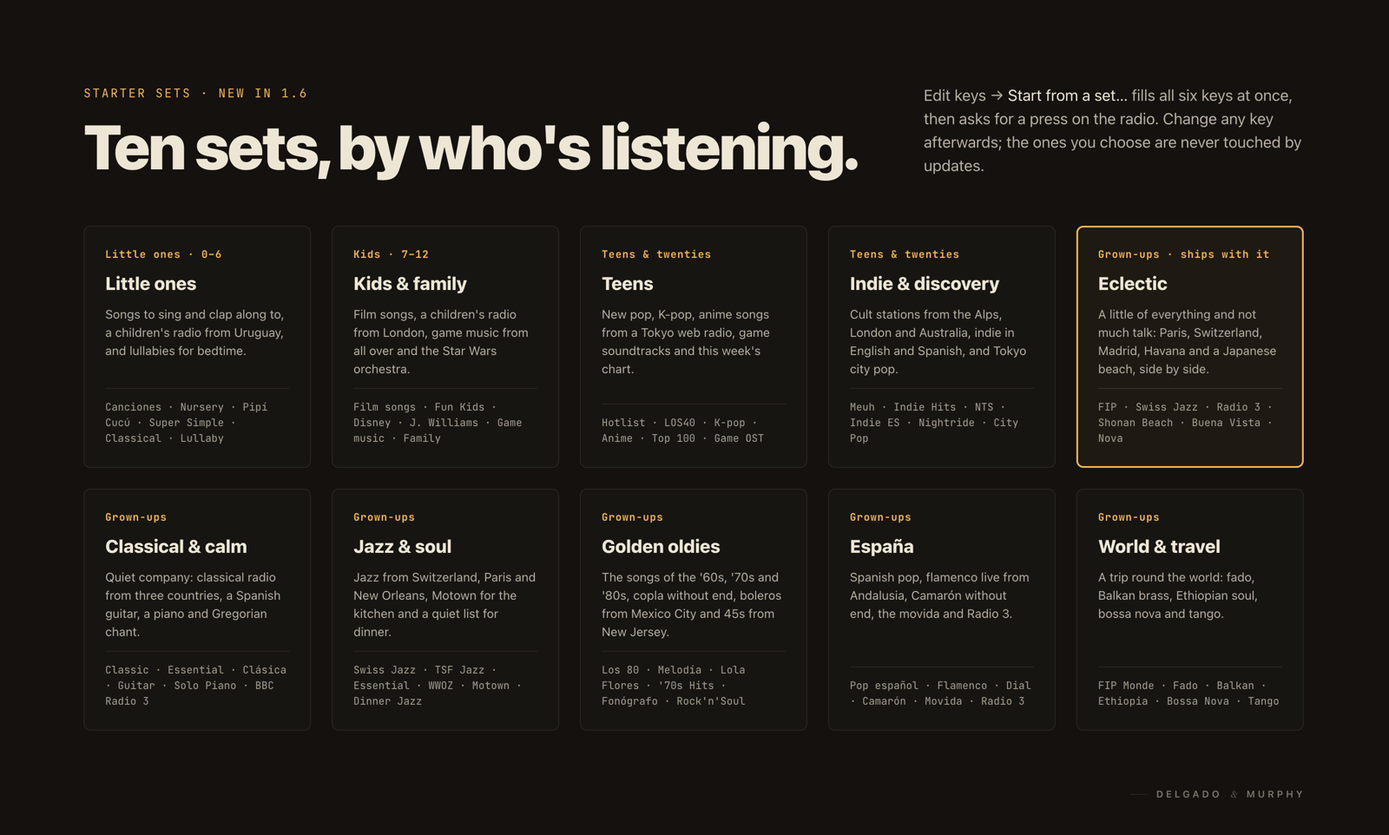
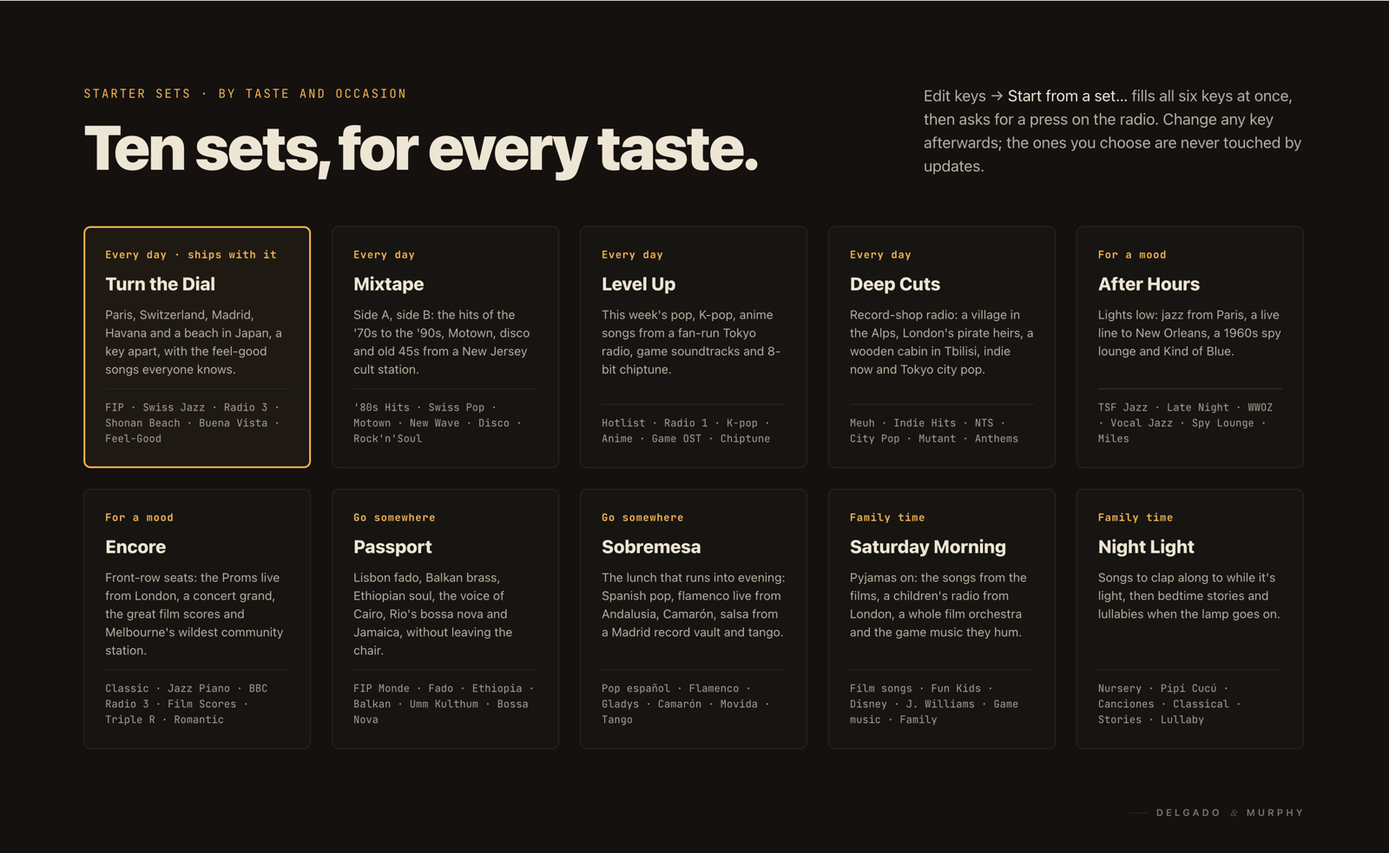
Starter sets by taste and occasion: Turn the Dial and nine more
Claude-Session: https://claude.ai/code/session_01Tuvo5fRpCFxVcgifKbLSTN

diff --git a/living-with-it.html b/living-with-it.html
@@ -4,13 +4,13 @@
 <meta charset="utf-8">
 <meta name="viewport" content="width=device-width, initial-scale=1">
 <title>Living with it · Hasler</title>
-<meta name="description" content="The keys, the knobs, the phone page, ten starter sets by who is listening, and answers to the questions people ask about the Hasler radio.">
+<meta name="description" content="The keys, the knobs, the phone page, ten starter sets for every taste and occasion, and answers to the questions people ask about the Hasler radio.">
 <meta name="theme-color" content="#17100B">
 <link rel="canonical" href="https://delgado-murphy.github.io/living-with-it.html">
 <meta property="og:type" content="website">
 <meta property="og:site_name" content="Hasler, by Delgado &amp; Murphy">
 <meta property="og:title" content="Living with it · Hasler">
-<meta property="og:description" content="The keys, the knobs, the phone page, ten starter sets by who is listening, and answers to the questions people ask about the Hasler radio.">
+<meta property="og:description" content="The keys, the knobs, the phone page, ten starter sets for every taste and occasion, and answers to the questions people ask about the Hasler radio.">
 <meta property="og:url" content="https://delgado-murphy.github.io/living-with-it.html">
 <meta property="og:image" content="https://delgado-murphy.github.io/img/og.png">
 <meta property="og:image:width" content="1200">
@@ -105,151 +105,151 @@
   <section class="section" id="sets" aria-labelledby="sets-title">
     <div class="wrap">
       <p class="label">Starter sets</p>
-      <h2 id="sets-title">Ten sets, by who’s listening.</h2>
+      <h2 id="sets-title">Ten sets, for every taste and occasion.</h2>
       <p class="lede">A radio comes with keys that show what it can do. Pick a whole set in one go (Edit keys, then <em>Start from a set…</em>), then make it yours one key at a time. The seventh is for the Excelsior’s <strong>Tape</strong> key.</p>
       <figure class="figure dark export" style="margin:8px 0 22px">
-        <a href="img/starter-sets-1600.webp"><picture><source type="image/webp" srcset="img/starter-sets-800.webp 800w, img/starter-sets-1600.webp 1600w" sizes="(min-width: 1180px) 1110px, calc(100vw - 32px)"><img src="img/starter-sets-1600.png" width="1600" height="962" alt="Ten cards grouped by listener: Little ones, Kids &amp; family, Teens, Indie &amp; discovery, Eclectic (the one each radio ships with), Classical &amp; calm, Jazz &amp; soul, Golden oldies, España, and World &amp; travel. Each card has a one-line description and its six stations or playlists." loading="lazy"></picture></a>
-        <figcaption>Ten starter sets, by who’s listening: one tap fills all the keys.</figcaption>
+        <a href="img/starter-sets-1600.webp"><picture><source type="image/webp" srcset="img/starter-sets-800.webp 800w, img/starter-sets-1600.webp 1600w" sizes="(min-width: 1180px) 1110px, calc(100vw - 32px)"><img src="img/starter-sets-1600.png" width="1600" height="983" alt="Ten cards grouped by occasion. Every day: Turn the Dial (the one each radio ships with), Mixtape, Level Up and Deep Cuts. For a mood: After Hours and Encore. Go somewhere: Passport and Sobremesa. Family time: Saturday Morning and Night Light. Each card has a one-line description and its six stations or playlists." loading="lazy"></picture></a>
+        <figcaption>Ten starter sets, grouped by occasion: one tap fills all the keys.</figcaption>
       </figure>
       <div class="sets">
-        <article class="set" id="set-little">
-          <p class="set-group">Little ones</p>
-          <h3>Little ones</h3>
-          <p class="set-blurb">Songs to sing and clap along to, a children&#x27;s radio from Uruguay, and lullabies for bedtime.</p>
-          <ol class="set-keys">
-            <li><span class="kn" title="Key 1">1</span><span class="kname">Canciones infantiles</span><span class="kkind">YouTube Music</span></li>
-            <li><span class="kn" title="Key 2">2</span><span class="kname">Nursery rhymes</span><span class="kkind">YouTube Music</span></li>
-            <li><span class="kn" title="Key 3">3</span><span class="kname">Radio Pipí Cucú</span><span class="kkind">station</span></li>
-            <li><span class="kn" title="Key 4">4</span><span class="kname">Super Simple Español</span><span class="kkind">YouTube Music</span></li>
-            <li><span class="kn" title="Key 5">5</span><span class="kname">Classical music for kids</span><span class="kkind">YouTube Music</span></li>
-            <li><span class="kn" title="Key 6">6</span><span class="kname">Calm Radio Lullaby</span><span class="kkind">station</span></li>
-            <li><span class="kn" title="Key 7, the Excelsior’s Tape key">T</span><span class="kname">Nanas para dormir</span><span class="kkind">YouTube Music</span></li>
-          </ol>
-        </article>
-        <article class="set" id="set-family">
-          <p class="set-group">Kids</p>
-          <h3>Kids &amp; family</h3>
-          <p class="set-blurb">Film songs, a children&#x27;s radio from London, game music from all over and the Star Wars orchestra.</p>
-          <ol class="set-keys">
-            <li><span class="kn" title="Key 1">1</span><span class="kname">Songs From Animated Movies</span><span class="kkind">YouTube Music</span></li>
-            <li><span class="kn" title="Key 2">2</span><span class="kname">Fun Kids</span><span class="kkind">station</span></li>
-            <li><span class="kn" title="Key 3">3</span><span class="kname">Disney en castellano</span><span class="kkind">YouTube Music</span></li>
-            <li><span class="kn" title="Key 4">4</span><span class="kname">Presenting John Williams</span><span class="kkind">YouTube Music</span></li>
-            <li><span class="kn" title="Key 5">5</span><span class="kname">Rainwave Game Music</span><span class="kkind">station</span></li>
-            <li><span class="kn" title="Key 6">6</span><span class="kname">Fun Family Hangout</span><span class="kkind">YouTube Music</span></li>
-            <li><span class="kn" title="Key 7, the Excelsior’s Tape key">T</span><span class="kname">Radio Swiss Pop</span><span class="kkind">station</span></li>
-          </ol>
-        </article>
-        <article class="set" id="set-teens">
-          <p class="set-group">Teens &amp; twenties</p>
-          <h3>Teens</h3>
-          <p class="set-blurb">New pop, K-pop, anime songs from a Tokyo web radio, game soundtracks and this week&#x27;s chart.</p>
-          <ol class="set-keys">
-            <li><span class="kn" title="Key 1">1</span><span class="kname">Pop Hotlist</span><span class="kkind">YouTube Music</span></li>
-            <li><span class="kn" title="Key 2">2</span><span class="kname">LOS40</span><span class="kkind">station</span></li>
-            <li><span class="kn" title="Key 3">3</span><span class="kname">K-HITLIST</span><span class="kkind">YouTube Music</span></li>
-            <li><span class="kn" title="Key 4">4</span><span class="kname">LISTEN.moe</span><span class="kkind">station</span></li>
-            <li><span class="kn" title="Key 5">5</span><span class="kname">Top 100 Spain</span><span class="kkind">YouTube Music</span></li>
-            <li><span class="kn" title="Key 6">6</span><span class="kname">Video Game Soundtracks</span><span class="kkind">YouTube Music</span></li>
-            <li><span class="kn" title="Key 7, the Excelsior’s Tape key">T</span><span class="kname">BBC Radio 1</span><span class="kkind">station</span></li>
-          </ol>
-        </article>
-        <article class="set" id="set-indie">
-          <p class="set-group">Teens &amp; twenties</p>
-          <h3>Indie &amp; discovery</h3>
-          <p class="set-blurb">Cult stations from the Alps, London and Australia, indie in English and Spanish, and Tokyo city pop.</p>
-          <ol class="set-keys">
-            <li><span class="kn" title="Key 1">1</span><span class="kname">Radio Meuh</span><span class="kkind">station</span></li>
-            <li><span class="kn" title="Key 2">2</span><span class="kname">Today&#x27;s Indie Hits</span><span class="kkind">YouTube Music</span></li>
-            <li><span class="kn" title="Key 3">3</span><span class="kname">NTS 1</span><span class="kkind">station</span></li>
-            <li><span class="kn" title="Key 4">4</span><span class="kname">Éxitos Indie</span><span class="kkind">YouTube Music</span></li>
-            <li><span class="kn" title="Key 5">5</span><span class="kname">Nightride FM</span><span class="kkind">station</span></li>
-            <li><span class="kn" title="Key 6">6</span><span class="kname">City Pop: Origins</span><span class="kkind">YouTube Music</span></li>
-            <li><span class="kn" title="Key 7, the Excelsior’s Tape key">T</span><span class="kname">triple j</span><span class="kkind">station</span></li>
-          </ol>
-        </article>
-        <article class="set" id="set-eclectic">
-          <p class="set-group">Grown-ups · the one it comes with</p>
-          <h3>Eclectic</h3>
-          <p class="set-blurb">A little of everything and not much talk: Paris, Switzerland, Madrid, Havana and a Japanese beach, side by side.</p>
+        <article class="set" id="set-dial">
+          <p class="set-group">Every day · the one it comes with</p>
+          <h3>Turn the Dial</h3>
+          <p class="set-blurb">Paris, Switzerland, Madrid, Havana and a beach in Japan, a key apart, with the feel-good songs everyone knows.</p>
           <ol class="set-keys">
             <li><span class="kn" title="Key 1">1</span><span class="kname">FIP</span><span class="kkind">station</span></li>
             <li><span class="kn" title="Key 2">2</span><span class="kname">Radio Swiss Jazz</span><span class="kkind">station</span></li>
             <li><span class="kn" title="Key 3">3</span><span class="kname">RNE Radio 3</span><span class="kkind">station</span></li>
             <li><span class="kn" title="Key 4">4</span><span class="kname">Shonan Beach FM</span><span class="kkind">station</span></li>
             <li><span class="kn" title="Key 5">5</span><span class="kname">Buena Vista Social Club radio</span><span class="kkind">YouTube Music</span></li>
-            <li><span class="kn" title="Key 6">6</span><span class="kname">Radio Nova</span><span class="kkind">station</span></li>
+            <li><span class="kn" title="Key 6">6</span><span class="kname">Classic Feel-Good Pop</span><span class="kkind">YouTube Music</span></li>
             <li><span class="kn" title="Key 7, the Excelsior’s Tape key">T</span><span class="kname">KEXP</span><span class="kkind">station</span></li>
           </ol>
         </article>
-        <article class="set" id="set-classical">
-          <p class="set-group">Grown-ups</p>
-          <h3>Classical &amp; calm</h3>
-          <p class="set-blurb">Quiet company: classical radio from three countries, a Spanish guitar, a piano and Gregorian chant.</p>
+        <article class="set" id="set-mixtape">
+          <p class="set-group">Every day</p>
+          <h3>Mixtape</h3>
+          <p class="set-blurb">Side A, side B: the hits of the &#x27;70s to the &#x27;90s, Motown, disco and old 45s from a New Jersey cult station.</p>
           <ol class="set-keys">
-            <li><span class="kn" title="Key 1">1</span><span class="kname">Radio Swiss Classic</span><span class="kkind">station</span></li>
-            <li><span class="kn" title="Key 2">2</span><span class="kname">Essential Classical</span><span class="kkind">YouTube Music</span></li>
-            <li><span class="kn" title="Key 3">3</span><span class="kname">RNE Radio Clásica</span><span class="kkind">station</span></li>
-            <li><span class="kn" title="Key 4">4</span><span class="kname">Classical Spanish Guitar</span><span class="kkind">YouTube Music</span></li>
-            <li><span class="kn" title="Key 5">5</span><span class="kname">Classical Solo Piano</span><span class="kkind">YouTube Music</span></li>
-            <li><span class="kn" title="Key 6">6</span><span class="kname">BBC Radio 3</span><span class="kkind">station</span></li>
-            <li><span class="kn" title="Key 7, the Excelsior’s Tape key">T</span><span class="kname">Gregorian chant</span><span class="kkind">station</span></li>
+            <li><span class="kn" title="Key 1">1</span><span class="kname">The Hits: &#x27;80s</span><span class="kkind">YouTube Music</span></li>
+            <li><span class="kn" title="Key 2">2</span><span class="kname">Radio Swiss Pop</span><span class="kkind">station</span></li>
+            <li><span class="kn" title="Key 3">3</span><span class="kname">Essential Motown Hits</span><span class="kkind">YouTube Music</span></li>
+            <li><span class="kn" title="Key 4">4</span><span class="kname">Underground 80s</span><span class="kkind">station</span></li>
+            <li><span class="kn" title="Key 5">5</span><span class="kname">Classic Disco Hits</span><span class="kkind">YouTube Music</span></li>
+            <li><span class="kn" title="Key 6">6</span><span class="kname">WFMU Rock&#x27;n&#x27;Soul</span><span class="kkind">station</span></li>
+            <li><span class="kn" title="Key 7, the Excelsior’s Tape key">T</span><span class="kname">The Hits: &#x27;90s</span><span class="kkind">YouTube Music</span></li>
           </ol>
         </article>
-        <article class="set" id="set-jazz">
-          <p class="set-group">Grown-ups</p>
-          <h3>Jazz &amp; soul</h3>
-          <p class="set-blurb">Jazz from Switzerland, Paris and New Orleans, Motown for the kitchen and a quiet list for dinner.</p>
+        <article class="set" id="set-levelup">
+          <p class="set-group">Every day</p>
+          <h3>Level Up</h3>
+          <p class="set-blurb">This week&#x27;s pop, K-pop, anime songs from a fan-run Tokyo radio, game soundtracks and 8-bit chiptune.</p>
           <ol class="set-keys">
-            <li><span class="kn" title="Key 1">1</span><span class="kname">Radio Swiss Jazz</span><span class="kkind">station</span></li>
-            <li><span class="kn" title="Key 2">2</span><span class="kname">TSF Jazz</span><span class="kkind">station</span></li>
-            <li><span class="kn" title="Key 3">3</span><span class="kname">Essential Jazz</span><span class="kkind">YouTube Music</span></li>
-            <li><span class="kn" title="Key 4">4</span><span class="kname">WWOZ New Orleans</span><span class="kkind">station</span></li>
-            <li><span class="kn" title="Key 5">5</span><span class="kname">Essential Motown Hits</span><span class="kkind">YouTube Music</span></li>
-            <li><span class="kn" title="Key 6">6</span><span class="kname">Dinner Party Jazz</span><span class="kkind">YouTube Music</span></li>
+            <li><span class="kn" title="Key 1">1</span><span class="kname">Pop Hotlist</span><span class="kkind">YouTube Music</span></li>
+            <li><span class="kn" title="Key 2">2</span><span class="kname">BBC Radio 1</span><span class="kkind">station</span></li>
+            <li><span class="kn" title="Key 3">3</span><span class="kname">K-HITLIST</span><span class="kkind">YouTube Music</span></li>
+            <li><span class="kn" title="Key 4">4</span><span class="kname">LISTEN.moe</span><span class="kkind">station</span></li>
+            <li><span class="kn" title="Key 5">5</span><span class="kname">Video Game Soundtracks</span><span class="kkind">YouTube Music</span></li>
+            <li><span class="kn" title="Key 6">6</span><span class="kname">Rainwave Chiptune</span><span class="kkind">station</span></li>
+            <li><span class="kn" title="Key 7, the Excelsior’s Tape key">T</span><span class="kname">Nightwave Plaza</span><span class="kkind">station</span></li>
+          </ol>
+        </article>
+        <article class="set" id="set-deepcuts">
+          <p class="set-group">Every day</p>
+          <h3>Deep Cuts</h3>
+          <p class="set-blurb">Record-shop radio: a village in the Alps, London&#x27;s pirate heirs, a wooden cabin in Tbilisi, indie now and Tokyo city pop.</p>
+          <ol class="set-keys">
+            <li><span class="kn" title="Key 1">1</span><span class="kname">Radio Meuh</span><span class="kkind">station</span></li>
+            <li><span class="kn" title="Key 2">2</span><span class="kname">Today&#x27;s Indie Hits</span><span class="kkind">YouTube Music</span></li>
+            <li><span class="kn" title="Key 3">3</span><span class="kname">NTS 1</span><span class="kkind">station</span></li>
+            <li><span class="kn" title="Key 4">4</span><span class="kname">City Pop: Origins</span><span class="kkind">YouTube Music</span></li>
+            <li><span class="kn" title="Key 5">5</span><span class="kname">Mutant Radio</span><span class="kkind">station</span></li>
+            <li><span class="kn" title="Key 6">6</span><span class="kname">Indie Anthems</span><span class="kkind">YouTube Music</span></li>
+            <li><span class="kn" title="Key 7, the Excelsior’s Tape key">T</span><span class="kname">Radio Nova</span><span class="kkind">station</span></li>
+          </ol>
+        </article>
+        <article class="set" id="set-afterhours">
+          <p class="set-group">For a mood</p>
+          <h3>After Hours</h3>
+          <p class="set-blurb">Lights low: jazz from Paris, a live line to New Orleans, a 1960s spy lounge and Kind of Blue.</p>
+          <ol class="set-keys">
+            <li><span class="kn" title="Key 1">1</span><span class="kname">TSF Jazz</span><span class="kkind">station</span></li>
+            <li><span class="kn" title="Key 2">2</span><span class="kname">Late Night Jazz</span><span class="kkind">YouTube Music</span></li>
+            <li><span class="kn" title="Key 3">3</span><span class="kname">WWOZ New Orleans</span><span class="kkind">station</span></li>
+            <li><span class="kn" title="Key 4">4</span><span class="kname">Sophisticated Vocal Jazz</span><span class="kkind">YouTube Music</span></li>
+            <li><span class="kn" title="Key 5">5</span><span class="kname">Secret Agent</span><span class="kkind">station</span></li>
+            <li><span class="kn" title="Key 6">6</span><span class="kname">Presenting Miles Davis</span><span class="kkind">YouTube Music</span></li>
             <li><span class="kn" title="Key 7, the Excelsior’s Tape key">T</span><span class="kname">Django Reinhardt radio</span><span class="kkind">YouTube Music</span></li>
           </ol>
         </article>
-        <article class="set" id="set-oldies">
-          <p class="set-group">Grown-ups</p>
-          <h3>Golden oldies</h3>
-          <p class="set-blurb">The songs of the &#x27;60s, &#x27;70s and &#x27;80s, copla without end, boleros from Mexico City and 45s from New Jersey.</p>
+        <article class="set" id="set-encore">
+          <p class="set-group">For a mood</p>
+          <h3>Encore</h3>
+          <p class="set-blurb">Front-row seats: the Proms live from London, a concert grand, the great film scores and Melbourne&#x27;s wildest community station.</p>
           <ol class="set-keys">
-            <li><span class="kn" title="Key 1">1</span><span class="kname">Éxitos de los &#x27;80</span><span class="kkind">YouTube Music</span></li>
-            <li><span class="kn" title="Key 2">2</span><span class="kname">Melodía FM</span><span class="kkind">station</span></li>
-            <li><span class="kn" title="Key 3">3</span><span class="kname">Lola Flores radio</span><span class="kkind">YouTube Music</span></li>
-            <li><span class="kn" title="Key 4">4</span><span class="kname">The Hits: &#x27;70s</span><span class="kkind">YouTube Music</span></li>
-            <li><span class="kn" title="Key 5">5</span><span class="kname">El Fonógrafo</span><span class="kkind">station</span></li>
-            <li><span class="kn" title="Key 6">6</span><span class="kname">WFMU Rock&#x27;n&#x27;Soul</span><span class="kkind">station</span></li>
-            <li><span class="kn" title="Key 7, the Excelsior’s Tape key">T</span><span class="kname">Joan Manuel Serrat radio</span><span class="kkind">YouTube Music</span></li>
+            <li><span class="kn" title="Key 1">1</span><span class="kname">Radio Swiss Classic</span><span class="kkind">station</span></li>
+            <li><span class="kn" title="Key 2">2</span><span class="kname">Jazz Piano</span><span class="kkind">YouTube Music</span></li>
+            <li><span class="kn" title="Key 3">3</span><span class="kname">BBC Radio 3</span><span class="kkind">station</span></li>
+            <li><span class="kn" title="Key 4">4</span><span class="kname">Epic Film Scores</span><span class="kkind">YouTube Music</span></li>
+            <li><span class="kn" title="Key 5">5</span><span class="kname">Triple R</span><span class="kkind">station</span></li>
+            <li><span class="kn" title="Key 6">6</span><span class="kname">Classical Romance</span><span class="kkind">YouTube Music</span></li>
+            <li><span class="kn" title="Key 7, the Excelsior’s Tape key">T</span><span class="kname">NRK Jazz</span><span class="kkind">station</span></li>
           </ol>
         </article>
-        <article class="set" id="set-espana">
-          <p class="set-group">Grown-ups</p>
-          <h3>España</h3>
-          <p class="set-blurb">Spanish pop, flamenco live from Andalusia, Camarón without end, the movida and Radio 3.</p>
-          <ol class="set-keys">
-            <li><span class="kn" title="Key 1">1</span><span class="kname">Pop español</span><span class="kkind">YouTube Music</span></li>
-            <li><span class="kn" title="Key 2">2</span><span class="kname">Flamenco Radio</span><span class="kkind">station</span></li>
-            <li><span class="kn" title="Key 3">3</span><span class="kname">Cadena Dial</span><span class="kkind">station</span></li>
-            <li><span class="kn" title="Key 4">4</span><span class="kname">Camarón de la Isla radio</span><span class="kkind">YouTube Music</span></li>
-            <li><span class="kn" title="Key 5">5</span><span class="kname">La movida</span><span class="kkind">YouTube Music</span></li>
-            <li><span class="kn" title="Key 6">6</span><span class="kname">RNE Radio 3</span><span class="kkind">station</span></li>
-            <li><span class="kn" title="Key 7, the Excelsior’s Tape key">T</span><span class="kname">Paco de Lucía radio</span><span class="kkind">YouTube Music</span></li>
-          </ol>
-        </article>
-        <article class="set" id="set-world">
-          <p class="set-group">Grown-ups</p>
-          <h3>World &amp; travel</h3>
-          <p class="set-blurb">A trip round the world: fado, Balkan brass, Ethiopian soul, bossa nova and tango.</p>
+        <article class="set" id="set-passport">
+          <p class="set-group">Go somewhere</p>
+          <h3>Passport</h3>
+          <p class="set-blurb">Lisbon fado, Balkan brass, Ethiopian soul, the voice of Cairo, Rio&#x27;s bossa nova and Jamaica, without leaving the chair.</p>
           <ol class="set-keys">
             <li><span class="kn" title="Key 1">1</span><span class="kname">FIP Monde</span><span class="kkind">station</span></li>
             <li><span class="kn" title="Key 2">2</span><span class="kname">Amália Rodrigues radio</span><span class="kkind">YouTube Music</span></li>
-            <li><span class="kn" title="Key 3">3</span><span class="kname">Goran Bregović radio</span><span class="kkind">YouTube Music</span></li>
-            <li><span class="kn" title="Key 4">4</span><span class="kname">Ethio Oldies</span><span class="kkind">station</span></li>
-            <li><span class="kn" title="Key 5">5</span><span class="kname">Bossa Nova Time</span><span class="kkind">YouTube Music</span></li>
-            <li><span class="kn" title="Key 6">6</span><span class="kname">La 2x4</span><span class="kkind">station</span></li>
+            <li><span class="kn" title="Key 3">3</span><span class="kname">Ethio Oldies</span><span class="kkind">station</span></li>
+            <li><span class="kn" title="Key 4">4</span><span class="kname">Goran Bregović radio</span><span class="kkind">YouTube Music</span></li>
+            <li><span class="kn" title="Key 5">5</span><span class="kname">Umm Kulthum radio</span><span class="kkind">station</span></li>
+            <li><span class="kn" title="Key 6">6</span><span class="kname">Bossa Nova Time</span><span class="kkind">YouTube Music</span></li>
             <li><span class="kn" title="Key 7, the Excelsior’s Tape key">T</span><span class="kname">Irie FM</span><span class="kkind">station</span></li>
+          </ol>
+        </article>
+        <article class="set" id="set-sobremesa">
+          <p class="set-group">Go somewhere</p>
+          <h3>Sobremesa</h3>
+          <p class="set-blurb">The lunch that runs into evening: Spanish pop, flamenco live from Andalusia, Camarón, salsa from a Madrid record vault and tango.</p>
+          <ol class="set-keys">
+            <li><span class="kn" title="Key 1">1</span><span class="kname">Pop español</span><span class="kkind">YouTube Music</span></li>
+            <li><span class="kn" title="Key 2">2</span><span class="kname">Flamenco Radio</span><span class="kkind">station</span></li>
+            <li><span class="kn" title="Key 3">3</span><span class="kname">Radio Gladys Palmera</span><span class="kkind">station</span></li>
+            <li><span class="kn" title="Key 4">4</span><span class="kname">Camarón de la Isla radio</span><span class="kkind">YouTube Music</span></li>
+            <li><span class="kn" title="Key 5">5</span><span class="kname">La movida</span><span class="kkind">YouTube Music</span></li>
+            <li><span class="kn" title="Key 6">6</span><span class="kname">La 2x4</span><span class="kkind">station</span></li>
+            <li><span class="kn" title="Key 7, the Excelsior’s Tape key">T</span><span class="kname">Lola Flores radio</span><span class="kkind">YouTube Music</span></li>
+          </ol>
+        </article>
+        <article class="set" id="set-saturday">
+          <p class="set-group">Family time</p>
+          <h3>Saturday Morning</h3>
+          <p class="set-blurb">Pyjamas on: the songs from the films, a children&#x27;s radio from London, a whole film orchestra and the game music they hum.</p>
+          <ol class="set-keys">
+            <li><span class="kn" title="Key 1">1</span><span class="kname">Songs From Animated Movies</span><span class="kkind">YouTube Music</span></li>
+            <li><span class="kn" title="Key 2">2</span><span class="kname">Fun Kids</span><span class="kkind">station</span></li>
+            <li><span class="kn" title="Key 3">3</span><span class="kname">21st Century Disney</span><span class="kkind">YouTube Music</span></li>
+            <li><span class="kn" title="Key 4">4</span><span class="kname">Presenting John Williams</span><span class="kkind">YouTube Music</span></li>
+            <li><span class="kn" title="Key 5">5</span><span class="kname">Rainwave Game Music</span><span class="kkind">station</span></li>
+            <li><span class="kn" title="Key 6">6</span><span class="kname">Fun Family Hangout</span><span class="kkind">YouTube Music</span></li>
+            <li><span class="kn" title="Key 7, the Excelsior’s Tape key">T</span><span class="kname">Broadway&#x27;s Biggest Hits</span><span class="kkind">YouTube Music</span></li>
+          </ol>
+        </article>
+        <article class="set" id="set-nightlight">
+          <p class="set-group">Family time</p>
+          <h3>Night Light</h3>
+          <p class="set-blurb">Songs to clap along to while it&#x27;s light, then bedtime stories and lullabies when the lamp goes on.</p>
+          <ol class="set-keys">
+            <li><span class="kn" title="Key 1">1</span><span class="kname">Classic Children&#x27;s Songs</span><span class="kkind">YouTube Music</span></li>
+            <li><span class="kn" title="Key 2">2</span><span class="kname">Radio Pipí Cucú</span><span class="kkind">station</span></li>
+            <li><span class="kn" title="Key 3">3</span><span class="kname">Children&#x27;s Songs</span><span class="kkind">YouTube Music</span></li>
+            <li><span class="kn" title="Key 4">4</span><span class="kname">Classical music for kids</span><span class="kkind">YouTube Music</span></li>
+            <li><span class="kn" title="Key 5">5</span><span class="kname">Bedtime stories</span><span class="kkind">station</span></li>
+            <li><span class="kn" title="Key 6">6</span><span class="kname">Calm Radio Lullaby</span><span class="kkind">station</span></li>
+            <li><span class="kn" title="Key 7, the Excelsior’s Tape key">T</span><span class="kname">Lullabies for Babies</span><span class="kkind">YouTube Music</span></li>
           </ol>
         </article>
       </div>

diff --git a/index.html b/index.html
@@ -151,7 +151,7 @@
       <h2 id="next-title" class="sr">Where to go next</h2>
       <div class="grid three">
         <div class="card link-card"><p class="label">How it works</p><p>A small computer, a modern amplifier and our own board, wired to the cabinet’s original parts.</p><a class="more" href="how-it-works.html">Inside the cabinet</a></div>
-        <div class="card link-card"><p class="label">Living with it</p><p>The keys, the knobs, ten starter sets for whoever is listening, and the questions people ask.</p><a class="more" href="living-with-it.html">Living with a Hasler</a></div>
+        <div class="card link-card"><p class="label">Living with it</p><p>The keys, the knobs, ten starter sets for every taste and occasion, and the questions people ask.</p><a class="more" href="living-with-it.html">Living with a Hasler</a></div>
         <div class="card link-card"><p class="label">Makers &amp; developers</p><p>The build guide, the HAT, the code and the releases. All open.</p><a class="more" href="makers.html">For makers</a></div>
       </div>
     </div>
